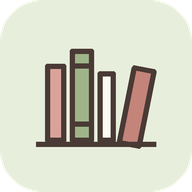
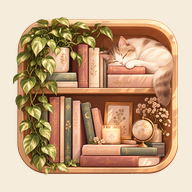
Yeni uygulama ikonu (kedili kitaplık)
Claude-Session: https://claude.ai/code/session_01Qek3SBQGEkkfq6LNJ44JCo

diff --git a/index.html b/index.html
@@ -1,7 +1,7 @@
 <!doctype html>
 <html lang="tr"><head><meta charset="utf-8"><meta name="viewport" content="width=device-width,initial-scale=1,viewport-fit=cover">
 <meta name="theme-color" content="#7f9a68"><meta name="description" content="Kitapların, PDF ve EPUB'ların için kapaklı raflar, okuyucu ve ayraç. Her şey cihazında saklanır.">
-<script src="config.js"></script><link rel="manifest" href="manifest.webmanifest"><link rel="icon" href="icon-192.png"><link rel="apple-touch-icon" href="icon-192.png">
+<script src="config.js"></script><link rel="manifest" href="manifest.webmanifest"><link rel="icon" href="icon-192.png?v=2"><link rel="apple-touch-icon" href="apple-touch-icon.png?v=2">
 <meta name="apple-mobile-web-app-capable" content="yes"><meta name="apple-mobile-web-app-title" content="Kütüphanem">
 <title>Dijital Kütüphanem</title>
 <link rel="preconnect" href="https://fonts.googleapis.com">

diff --git a/sw.js b/sw.js
@@ -1,4 +1,4 @@
-const C='kutuphane-v21';
+const C='kutuphane-v22';
 self.addEventListener('install',e=>{e.waitUntil(caches.open(C).then(c=>c.addAll(['./','./index.html','./manifest.webmanifest','./icon-192.png','./icon-512.png','./config.js','./gizlilik.html'])).then(()=>self.skipWaiting()))});
 self.addEventListener('activate',e=>{e.waitUntil(caches.keys().then(ks=>Promise.all(ks.filter(k=>k!==C).map(k=>caches.delete(k)))).then(()=>self.clients.claim()))});
 self.addEventListener('fetch',e=>{const r=e.request;if(r.method!=='GET')return;
